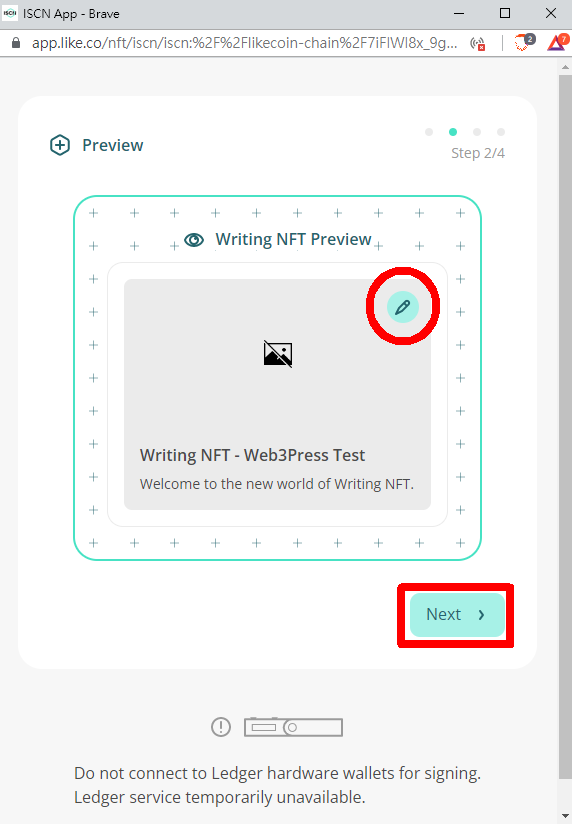
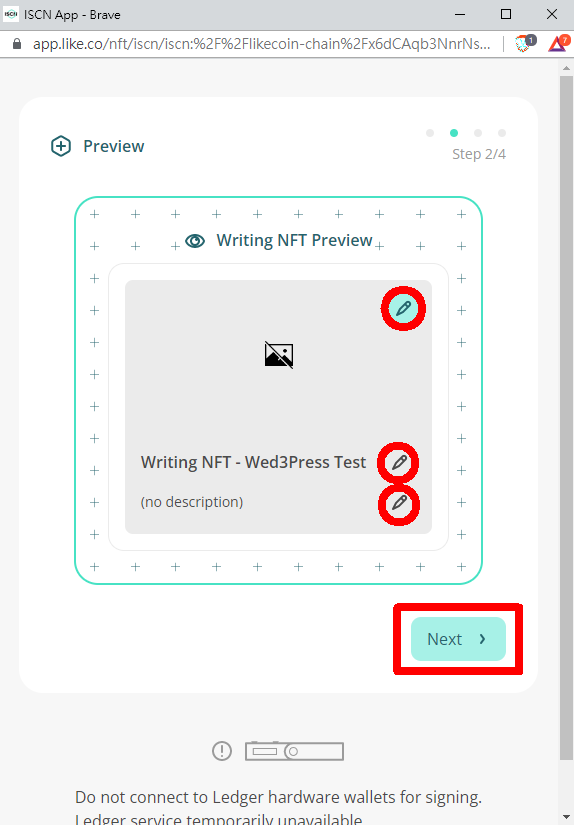
GITBOOK-4321: Web3Press

diff --git a/user-guide/wordpress.md b/user-guide/wordpress.md
@@ -82,7 +82,11 @@ ISCN 經已成功註冊，點「Continue to mint Writing NFTs」鑄造 Writing N
 
 <figure><img src="../.gitbook/assets/W3Press mint 7.png" alt=""><figcaption></figcaption></figure>
 
-預覽你的 Writing NFT，如需添加或更改 Writing NFT 的封面可按「:pencil2:」，如不需更改 / 文章沒有圖片，將顯示文章預設的 OG 圖 / 不顯示圖片，完成後按「Next」。
+{% hint style="info" %}
+你可以隨時到 [app.like.co](https://app.like.co/) 的 [My Publishing](https://app.like.co/works) 查看已註冊的 ISCN。
+{% endhint %}
+
+預覽你的 Writing NFT，如需添加或更改 Writing NFT 的封面可按「:pencil2:」，如不需更改 / 文章沒有圖片，將顯示文章預設的 OG 圖 / 不顯示圖片；你亦可以按「:pencil2:」更改 Writing NFT 的標題及簡介。完成後按「Next」。
 
 <figure><img src="../.gitbook/assets/W3Press mint 8.png" alt=""><figcaption></figcaption></figure>
 
